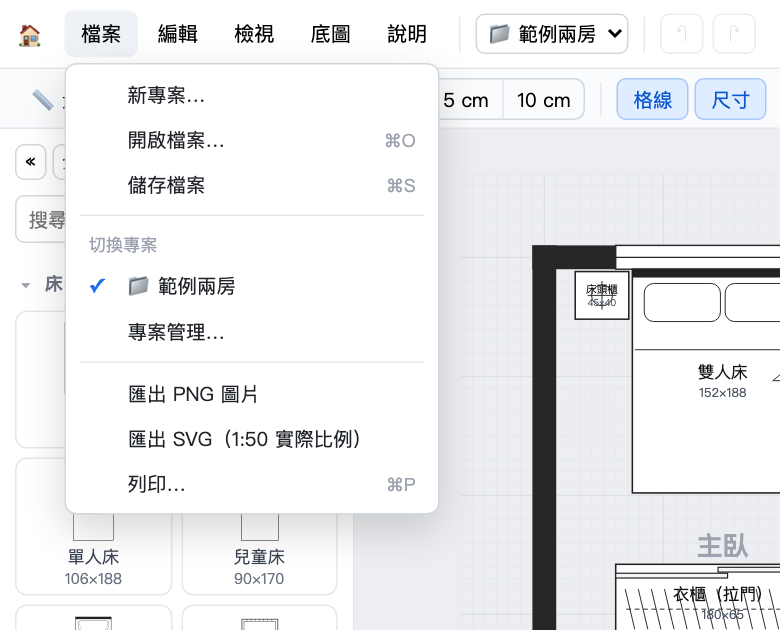
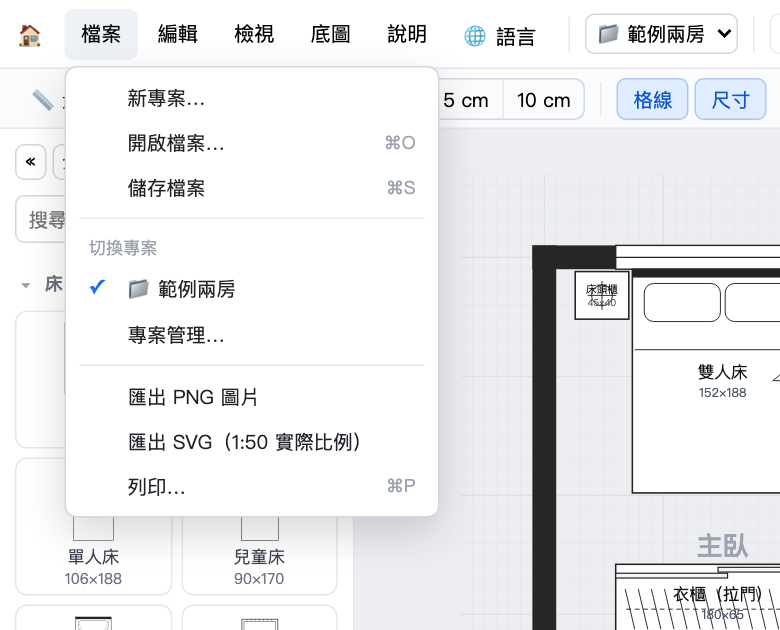
語言切換改為選單列獨立的「🌐 語言」下拉選單；更新教學截圖

diff --git a/src/ui/menubar.js b/src/ui/menubar.js
@@ -142,10 +142,8 @@ export function menuItems(name) {
         f: () => window.open("https://github.com/u9951064/house-layout/issues/new", "_blank", "noopener"),
       },
       { t: t("AI 底圖提示詞（PROMPT.md）"), k: "↗", f: () => window.open("PROMPT.md", "_blank", "noopener") },
-      "-",
-      { h: "語言 Language" },
-      ...LANGS.map(([k, label]) => ({ t: label, c: LANG === k, f: () => setLang(k) })),
     ];
+  if (name === "lang") return LANGS.map(([k, label]) => ({ t: label, c: LANG === k, f: () => setLang(k) }));
   return [];
 }
 export function openMenu(name, btn) {

diff --git a/index.html b/index.html
@@ -21,6 +21,7 @@
       <button class="mb" data-menu="view">檢視</button>
       <button class="mb" data-menu="base">底圖</button>
       <button class="mb" data-menu="help">說明</button>
+      <button class="mb" data-menu="lang" title="語言 Language">🌐 語言</button>
     </nav>
     <span class="sep"></span>
     <select id="selProj" title="切換專案" style="max-width:220px;font-size:13px;padding:4px;border:1px solid #d0d7de;border-radius:6px"></select>

diff --git a/src/i18n/en/page.js b/src/i18n/en/page.js
@@ -9,6 +9,8 @@ const text = {
   檢視: "View",
   底圖: "Base plan",
   說明: "Help",
+  "🌐 語言": "🌐 Language",
+  "語言 Language": "語言 Language",
   切換專案: "Switch project",
   "復原 (⌘Z)": "Undo (⌘Z)",
   "重做 (⇧⌘Z)": "Redo (⇧⌘Z)",

diff --git a/README.md b/README.md
@@ -4,7 +4,7 @@
 
 📖 [完整使用教學](https://house-layout.tinycloud.tw/guide.html)｜[English guide](https://house-layout.tinycloud.tw/guide.en.html)
 
-🌐 介面支援繁體中文（預設）與英文：從「說明」選單切換，或在網址加上 `?lang=en`（例如 <https://house-layout.tinycloud.tw/?lang=en>）。
+🌐 介面支援繁體中文（預設）與英文：從選單列的「🌐 語言」切換，或在網址加上 `?lang=en`（例如 <https://house-layout.tinycloud.tw/?lang=en>）。
 
 - **先匯入自己的房屋底圖**：匯入底圖／專案檔（.json）、上傳平面圖圖片並以兩點校正比例，或輸入外框尺寸建立外牆。
 - **AI 產生底圖**：複製內建提示詞（[PROMPT.md](PROMPT.md)）給 ChatGPT／Claude／Gemini，附上平面尺寸圖或不動產說明書，把回覆貼回網頁即可套用；會自動修正小誤差並列出提醒。
